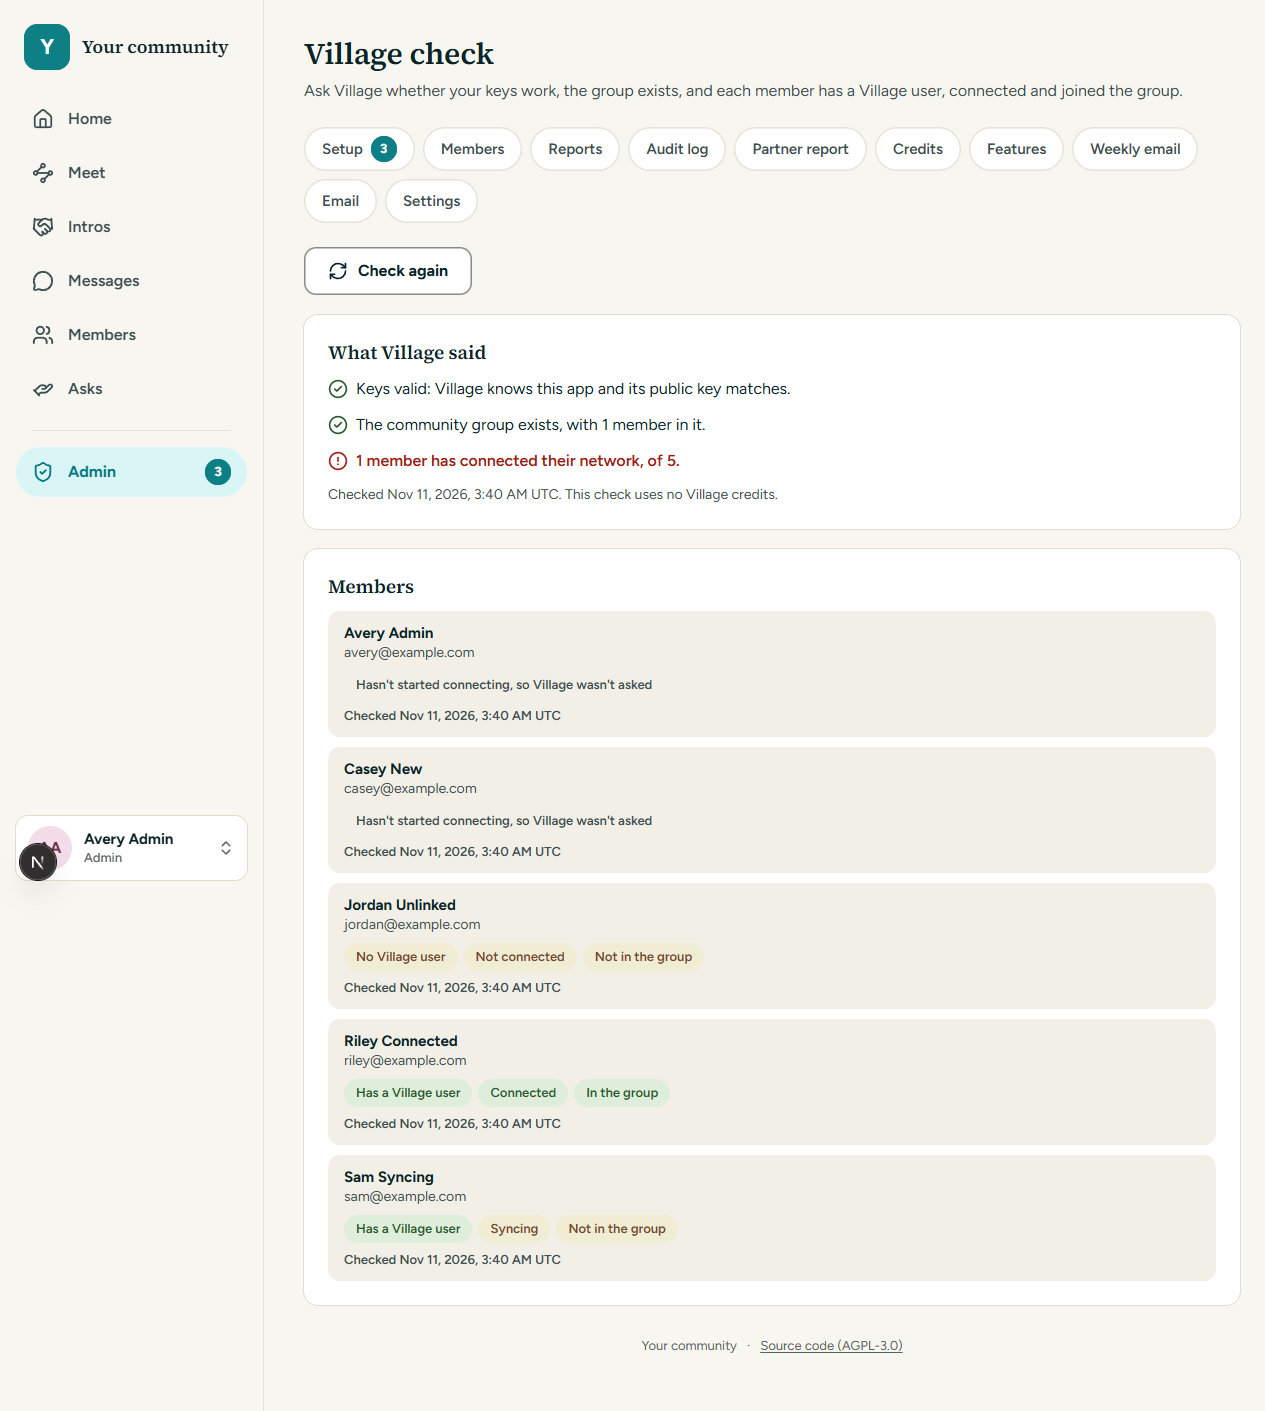
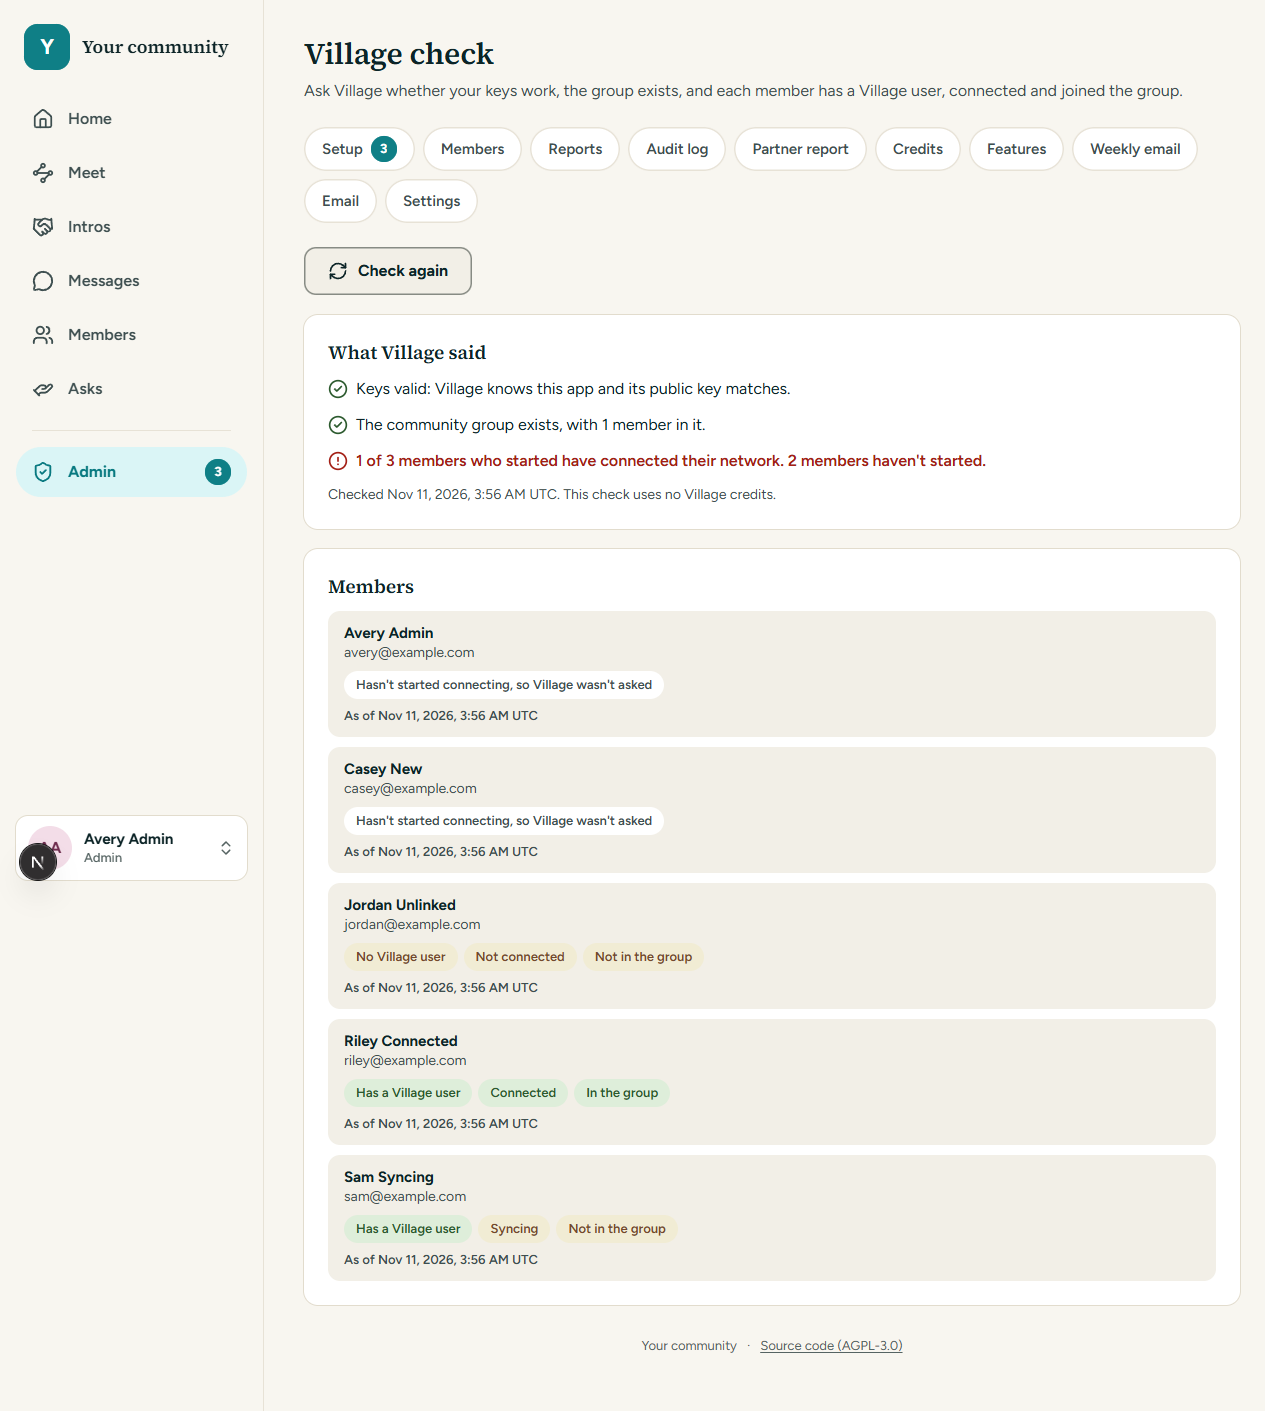
Village check: one check per double-click, clearer member lines, any reported address removable

diff --git a/src/app/(app)/admin/village/page.tsx b/src/app/(app)/admin/village/page.tsx
@@ -53,8 +53,9 @@ function Line({ text, isOk }: { text: string; isOk: boolean }) {
 function Summary({ check, members }: { check: Check; members: CheckedMember[] }) {
   const keyLine = KEY_LINES[check.keys ?? VILLAGE_CHECK_KEYS.unreachable] ?? KEY_LINES[VILLAGE_CHECK_KEYS.unreachable];
   const groupLine = readGroupLine(check);
-  const asked = members.filter(({ outcome }) => outcome === MEMBER_CHECK_OUTCOMES.checked);
-  const connected = asked.filter(({ isProvisioned, networkStatus }) => isProvisioned && isConnectedStatus(networkStatus)).length;
+  const started = members.filter(({ outcome }) => outcome !== MEMBER_CHECK_OUTCOMES.notStarted);
+  const connected = started.filter(({ isProvisioned, networkStatus }) => isProvisioned && isConnectedStatus(networkStatus)).length;
+  const notStarted = members.length - started.length;
   return (
     <Card className="grid gap-3">
       <CardTitle>What Village said</CardTitle>
@@ -67,7 +68,12 @@ function Summary({ check, members }: { check: Check; members: CheckedMember[] })
         </p>
       ) : null}
       {groupLine ? <Line {...groupLine} /> : null}
-      {check.keys === VILLAGE_CHECK_KEYS.ok ? <Line text={`${plural(connected, "member has", "members have")} connected their network, of ${members.length}.`} isOk={connected === members.length} /> : null}
+      {check.keys === VILLAGE_CHECK_KEYS.ok ? (
+        <Line
+          text={`${connected} of ${plural(started.length, "member", "members")} who started have connected their network.${notStarted > 0 ? ` ${plural(notStarted, "member hasn't", "members haven't")} started.` : ""}`}
+          isOk={connected === started.length}
+        />
+      ) : null}
       <CardDescription>Checked {formatDateAndTimeUtc(check.checkedAt ?? check.startedAt)}. This check uses no Village credits.</CardDescription>
     </Card>
   );
@@ -88,9 +94,9 @@ function readNetworkTag(networkStatus: string | null) {
   return { text: "Not connected", isOk: false };
 }
 
-function MemberTags({ member }: { member: CheckedMember }) {
+function MemberTags({ member, areKeysOk }: { member: CheckedMember; areKeysOk: boolean }) {
   if (member.outcome === MEMBER_CHECK_OUTCOMES.notStarted) return <StateTag isOk={null}>Hasn&apos;t started connecting, so Village wasn&apos;t asked</StateTag>;
-  if (member.outcome === MEMBER_CHECK_OUTCOMES.unreachable) return <StateTag isOk={null}>Not checked this time</StateTag>;
+  if (member.outcome === MEMBER_CHECK_OUTCOMES.unreachable) return <StateTag isOk={null}>{areKeysOk ? "Village didn't answer in time" : "Not asked: the keys didn't work"}</StateTag>;
   const network = readNetworkTag(member.isProvisioned ? member.networkStatus : null);
   return (
     <>
@@ -101,7 +107,7 @@ function MemberTags({ member }: { member: CheckedMember }) {
   );
 }
 
-function MemberList({ members }: { members: CheckedMember[] }) {
+function MemberList({ members, areKeysOk }: { members: CheckedMember[]; areKeysOk: boolean }) {
   if (members.length === 0) return <CardDescription>No members yet.</CardDescription>;
   return (
     <ul className="grid gap-2.5" aria-label="Members">
@@ -112,9 +118,9 @@ function MemberList({ members }: { members: CheckedMember[] }) {
             <span className="type-small block text-foreground-soft">{member.email}</span>
           </p>
           <div className="flex flex-wrap gap-1.5">
-            <MemberTags member={member} />
+            <MemberTags member={member} areKeysOk={areKeysOk} />
           </div>
-          <p className="type-micro text-foreground-soft">Checked {formatDateAndTimeUtc(member.checkedAt)}</p>
+          <p className="type-micro text-foreground-soft">As of {formatDateAndTimeUtc(member.checkedAt)}</p>
         </li>
       ))}
     </ul>
@@ -135,7 +141,7 @@ export default modulePage(networkManifest, async function AdminVillagePage() {
             <Summary check={check} members={members} />
             <Card className="grid gap-3">
               <CardTitle>Members</CardTitle>
-              <MemberList members={members} />
+              <MemberList members={members} areKeysOk={check.keys === VILLAGE_CHECK_KEYS.ok} />
             </Card>
           </>
         ) : (

diff --git a/src/modules/network/components/village-check-button.tsx b/src/modules/network/components/village-check-button.tsx
@@ -3,6 +3,7 @@
 import { useMutation } from "@tanstack/react-query";
 import { RefreshCw } from "lucide-react";
 import { useRouter } from "next/navigation";
+import { useRef } from "react";
 
 import { FormError } from "@/components/form-error";
 import { Button } from "@/components/ui/button";
@@ -16,10 +17,23 @@ function runCheck() {
 
 export function VillageCheckButton({ hasChecked }: { hasChecked: boolean }) {
   const router = useRouter();
-  const check = useMutation({ mutationFn: runCheck, onSuccess: () => router.refresh() });
+  // A double-click would send two checks; the second always meets the once-a-minute limit.
+  const isRunning = useRef(false);
+  const check = useMutation({
+    mutationFn: runCheck,
+    onSuccess: () => router.refresh(),
+    onSettled: () => {
+      isRunning.current = false;
+    },
+  });
+  function start() {
+    if (isRunning.current) return;
+    isRunning.current = true;
+    check.mutate();
+  }
   return (
     <div className="grid gap-2">
-      <Button type="button" variant={hasChecked ? "outline" : "primary"} disabled={check.isPending} onClick={() => check.mutate()} className="max-sm:w-full sm:justify-self-start">
+      <Button type="button" variant={hasChecked ? "outline" : "primary"} disabled={check.isPending} onClick={start} className="max-sm:w-full sm:justify-self-start">
         <RefreshCw aria-hidden="true" className={check.isPending ? "animate-spin motion-reduce:animate-none" : undefined} />
         {check.isPending ? "Asking Village…" : hasChecked ? "Check again" : "Check Village now"}
       </Button>

diff --git a/src/app/api/admin/email/do-not-send/do-not-send.test.ts b/src/app/api/admin/email/do-not-send/do-not-send.test.ts
@@ -51,6 +51,14 @@ describe("Admin › Email", () => {
     expect(entries).toEqual([expect.objectContaining({ actorId: admin.userId, detail: BOUNCED })]);
   });
 
+  it("removes any address the mail service reported, even one that isn't a plain email", async () => {
+    const admin = await createSignedInMember(database, "admin");
+    await database.insert(emailSuppression).values({ email: "josé@example.com", reason: "bounced" });
+
+    expect((await postRemove(removeRequest(admin, "josé@example.com"))).status).toBe(200);
+    expect(await readDoNotSendList(database)).toEqual([expect.objectContaining({ email: BOUNCED })]);
+  });
+
   it("says when the address isn't on the list, and refuses members who aren't admins", async () => {
     const admin = await createSignedInMember(database, "admin");
     const member = await createSignedInMember(database);

diff --git a/src/modules/admin/contract-email.ts b/src/modules/admin/contract-email.ts
@@ -3,4 +3,7 @@ import { z } from "zod";
 // Admin › Email: the sent-email list shows who, what kind, how it went and when. Never a subject or body.
 export const EMAIL_LOG_PAGE_SIZE = 100;
 
-export const doNotSendRemoveBodySchema = z.object({ email: z.string().trim().toLowerCase().email("Enter an email address.") });
+const MAXIMUM_ADDRESS_LENGTH = 320;
+
+// Not checked as an email: the list holds whatever address the mail service reported, and each must be removable.
+export const doNotSendRemoveBodySchema = z.object({ email: z.string().trim().toLowerCase().min(1, "Enter an email address.").max(MAXIMUM_ADDRESS_LENGTH) });

diff --git a/.ai/features/village-check/NOTES.md b/.ai/features/village-check/NOTES.md
@@ -8,7 +8,7 @@
 - Members: every active member. Only those with a `member_network` row that agreed to share, linked, or joined are
   asked; the rest are `not_started`, so the check never sends Village a new email. For each asked member: `user.get`
   (`/v2/user/status`; an email means a Village user exists) and, if provisioned, `groups.list` to see the community
-  group's id. 4 at a time, 15 s each; any failure is `unreachable` ("Not checked this time").
+  group's id. 4 at a time, 15 s each; any failure is `unreachable` ("Village didn't answer in time"; "Not asked: the keys didn't work" when the keys failed).
 - Group count: Village has no free "members of a group" call, so it counts checked members whose list holds the group.
 - Store: `village_member_check` is replaced on each run (cascade-deleted with the user).
 - Meet: `reads-village-check.ts` `readOwnVillageState`; connected = provisioned, ready or needs attention, in the group.

diff --git a/.ai/features/village-check/CHARTER.md b/.ai/features/village-check/CHARTER.md
@@ -31,7 +31,7 @@ Out: paid calls, a scheduled check, changing anyone's Village state, a Vercel li
   members whose list holds it.
 - Minting a member token is free and is what the join flow already does; it never connects or joins anyone.
 - Rate limit: one check a minute for the whole community, claimed in one conditional write so two clicks can't both run.
-- The check runs in the request with a 55-second budget; members it couldn't reach in time show "Not checked this time".
+- The check runs in the request with a 55-second budget; members it couldn't reach in time show "Village didn't answer in time".
 
 ## Architecture
 - Network module: `schema.ts` gains `village_check` (one row: when, keys, group, counts) and `village_member_check`
